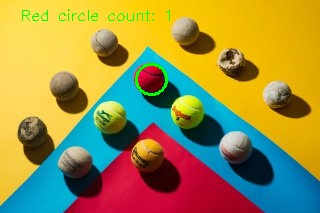
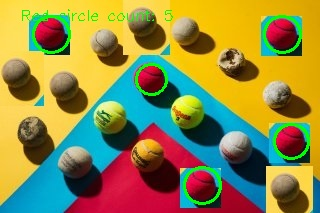
chore: sme cmt

diff --git a/src/main/java/org/example/redcircledetector/service/ImageProcessingService.java b/src/main/java/org/example/redcircledetector/service/ImageProcessingService.java
@@ -52,11 +52,11 @@ public class ImageProcessingService {
 
         Mat littleImg = image.submat(startY, endY, startX, endX);
         Scalar mean = Core.mean(littleImg);
-        double red = mean.val[2];    // کانال BGR: 2 = Red
-        double green = mean.val[1];  // کانال Green
-        double blue = mean.val[0];   // کانال Blue
+        double red = mean.val[2];
+        double green = mean.val[1];
+        double blue = mean.val[0];
 
-        return red > 170 && green < 60 && blue < 60;
+        return red > 150 && green < 60 && blue < 60;
     }
 
     private Mat bufferedImageToMat(BufferedImage bi) {
